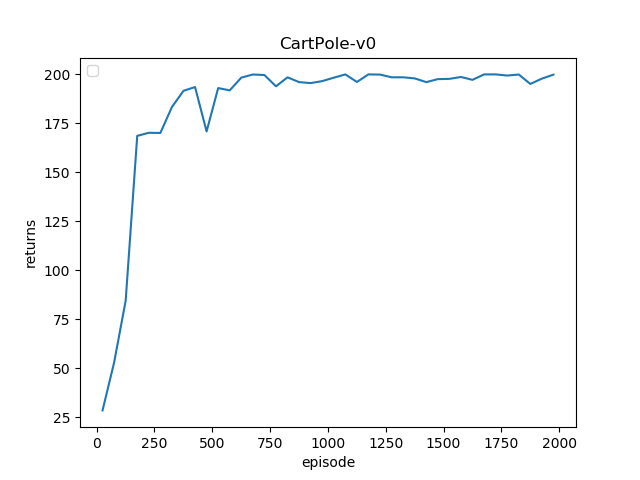
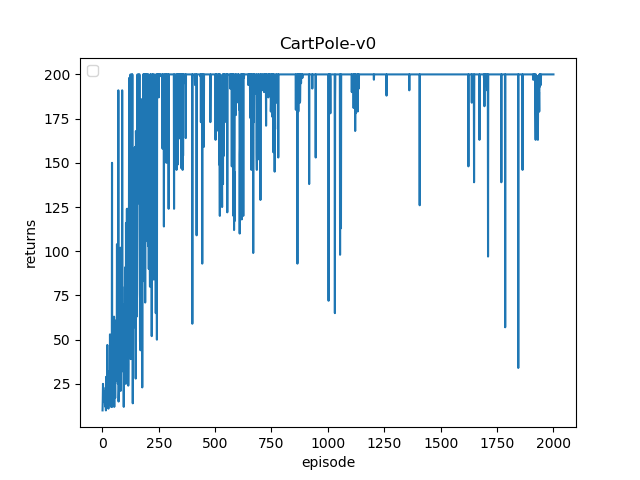
add huber loss

diff --git a/all/approximation/q_tabular.py b/all/approximation/q_tabular.py
@@ -1,8 +1,8 @@
 import copy
 import torch
 from torch import optim
+from torch.nn.functional import smooth_l1_loss
 from .q_function import QFunction
-
 
 class QTabular(QFunction):
     def __init__(self, model, optimizer=None, target_update_frequency=None):
@@ -28,8 +28,9 @@ class QTabular(QFunction):
         with torch.no_grad():
             return self._eval(states, actions, self.target_model)
 
-    def reinforce(self, errors):
-        self.cache.backward(-errors)
+    def train(self, targets):
+        loss = smooth_l1_loss(self.cache, targets)
+        loss.backward()
         self.optimizer.step()
         self.optimizer.zero_grad()
         self.updates += 1

diff --git a/all/approximation/v_network.py b/all/approximation/v_network.py
@@ -1,5 +1,6 @@
 import torch
 from torch import optim
+from torch.nn.functional import smooth_l1_loss
 from .v_function import ValueFunction
 
 class ValueNetwork(ValueFunction):
@@ -19,8 +20,9 @@ class ValueNetwork(ValueFunction):
         with torch.no_grad():
             return self._eval(states)
 
-    def reinforce(self, errors):
-        self.cache.backward(-errors)
+    def train(self, targets):
+        loss = smooth_l1_loss(self.cache, targets)
+        loss.backward()
         self.optimizer.step()
         self.optimizer.zero_grad()
 

diff --git a/all/agents/reinforce.py b/all/agents/reinforce.py
@@ -35,8 +35,8 @@ class REINFORCE(Agent):
         values = self.v(states)
         ordered = torch.flip(rewards, dims=(0,))
         returns = torch.flip(torch.cumsum(ordered, dim=0), dims=(0,))
-        advantages = (returns - values) / len(self.states)
+        advantages = returns - values
         print('debug', values[0], values[-1], self.policy.eval(self.states[0]), self.policy.eval(self.states[-1]))
 
-        self.v.reinforce(advantages)
+        self.v.train(returns)
         self.policy.reinforce(advantages)

diff --git a/all/agents/dqn.py b/all/agents/dqn.py
@@ -53,9 +53,6 @@ class DQN(Agent):
 
     def train(self):
         (states, actions, next_states, rewards) = self.replay_buffer.sample(self.minibatch_size)
-        td_errors = (
-            rewards
-            + self.gamma * torch.max(self.q.eval(next_states), dim=1)[0]
-            - self.q(states, actions)
-        )
-        self.q.reinforce(td_errors)
+        self.q(states, actions)
+        targets = rewards + self.gamma * torch.max(self.q.eval(next_states), dim=1)[0]
+        self.q.train(targets)

diff --git a/all/presets/dqn/classic_control/__init__.py b/all/presets/dqn/classic_control/__init__.py
@@ -21,7 +21,7 @@ def dqn_cc(
         target_update_frequency=1000,
         annealing_time=10000,
         prefetch_size=32 * 8,
-        minibatch_size=32,
+        minibatch_size=64,
         update_frequency=1,
 ):
     def _dqn_cc(env):

diff --git a/all/approximation/v_function.py b/all/approximation/v_function.py
@@ -10,5 +10,5 @@ class ValueFunction(ABC):
         pass
 
     @abstractmethod
-    def reinforce(self, errors):
+    def train(self, targets):
         pass

diff --git a/all/approximation/q_function.py b/all/approximation/q_function.py
@@ -10,5 +10,5 @@ class QFunction(ABC):
         pass
 
     @abstractmethod
-    def reinforce(self, errors):
+    def train(self, targets):
         pass
